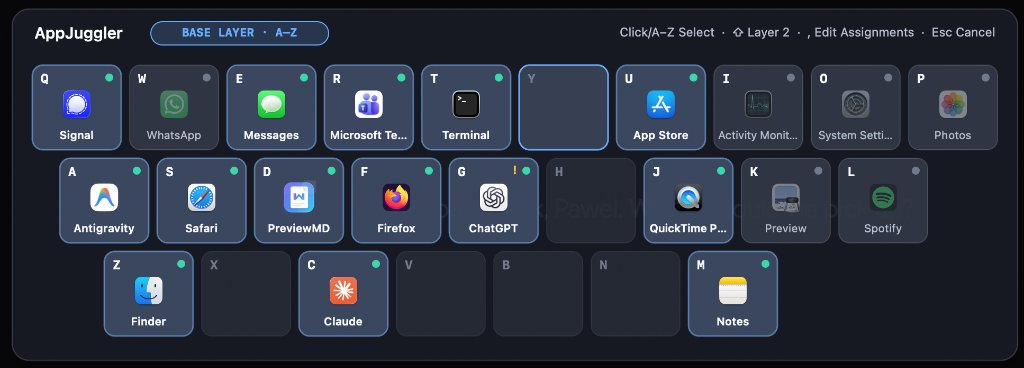
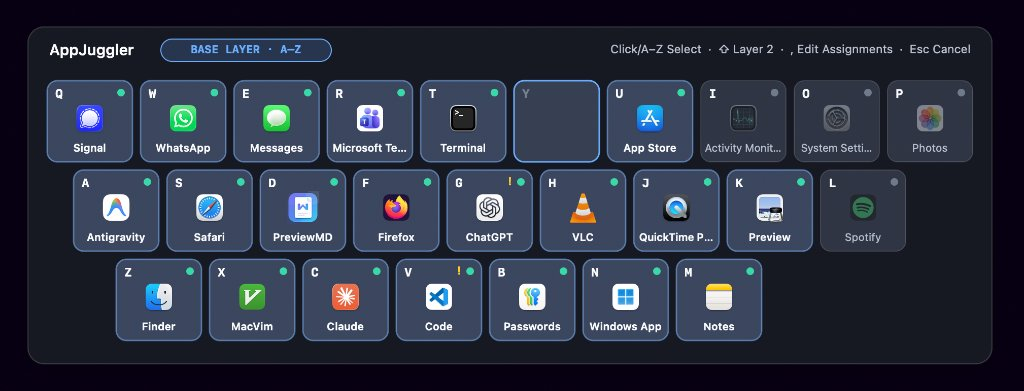
Add HUD and Edit Assignments screenshots to README

diff --git a/README.md b/README.md
@@ -81,8 +81,13 @@ open dist/AppJuggler.app
 ## Assigning Apps to Keys
 
 ### 1. Edit Assignments Window (`Caps ×2 → ,` or Menu Bar Icon)
+
+<p align="center">
+  <img src="docs/assets/edit_assignments.jpg" width="900" alt="AppJuggler Edit Assignments window" />
+</p>
+
 - Open **`Edit Assignments…`** anytime from the keyboard by pressing **`Caps Lock ×2 → ,`** *(comma)*, or by clicking the compact keyboard icon in the macOS menu bar.
-- Switch between **Base Layer (`A–Z`)** and **Shift Layer (`⇧A–Z`)**, click any keycap on the visual keyboard map, select an app from **Unassigned Running Apps** / **All Running & Installed** / **Choose `.app`…**, and click **Assign to Slot**.
+- Switch between **Base Layer (`A–Z`)** and **Shift Layer (`⇧A–Z`)**, click (or press `A–Z` for) any keycap on the visual keyboard map, select an app from **Unassigned Running Apps** / **All Running & Installed** / **Choose `.app`…**, and click **Assign to Slot**.
 - **Instant Maximize (`Same Space — 0 ms`)** *(optional checkbox)*: when checked (or `"auto_maximize_on_switch": true` in `config.json`), any non-modal desktop window AppJuggler switches to instantly fills the screen (`visibleFrame`) via Accessibility API in `< 1 ms` **on the current Desktop Space** — avoiding macOS's cross-Space slide/fade animations completely.
 - **Switch Target Window to Full Screen** *(optional checkbox)*: when checked (or `"auto_fullscreen_on_switch": true` in `config.json`), any non-modal target window AppJuggler switches to automatically enters native macOS Full Screen *(note: macOS creates a separate Space per Full Screen window)*.
 - **Disable Window Animations…** *(button in `Edit Assignments…` & menu bar)*: opens a dedicated diagnostic & one-click helper window that disables programmable macOS AppKit window, Dock, Mission Control, and Finder animations (`defaults`), moves stuck Full Screen windows onto a single Desktop Space, and links directly to `System Settings → Accessibility → Display → Reduce motion`.
